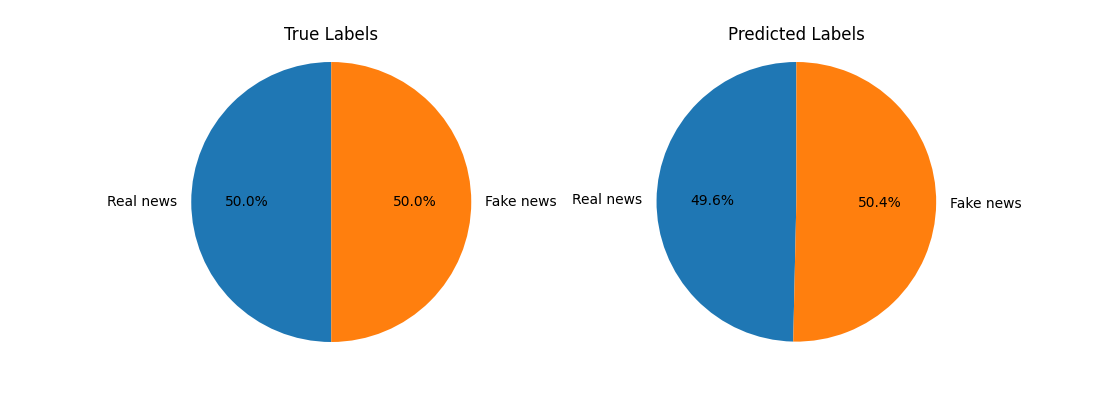
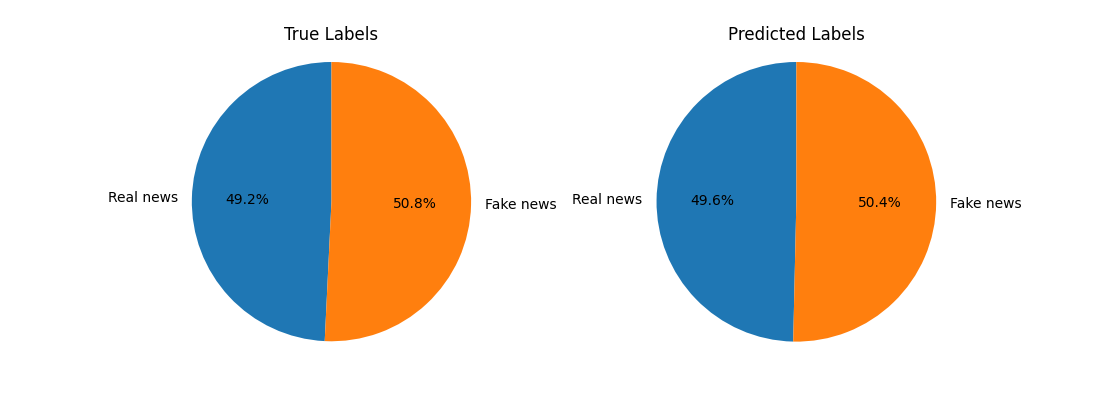
Fix bug in plotting code

diff --git a/model/naive_bayesian_classifier.py b/model/naive_bayesian_classifier.py
@@ -77,9 +77,10 @@ def test_run(X_train, X_test, y_train, y_test, use_full_dataset=False):
     # use best estimator to make predictions
     y_pred = naive_bayesian_predict(best_estimator, X_test)
 
-    tools.plot_predicted_labels(y_test, y_pred, "NaiveBayes", True)
-    tools.display_prediction_scores(y_test,y_pred)
-    tools.write_metrics_to_file(y_test,y_pred,"NaiveBayes")
-    tools.plot_confusion_matrix(y_test,y_pred,"NaiveBayes", True)
+    tools.plot_predicted_labels(y_test.values, y_pred, "NaiveBayes", True)
+    tools.display_prediction_scores(y_test.values,y_pred)
+    tools.write_metrics_to_file(y_test.values,y_pred,"NaiveBayes")
+    tools.plot_confusion_matrix(y_test.values,y_pred,"NaiveBayes", True)
 
+    print()
     tools.display_result(best_estimator, X_train)

diff --git a/model/logistic_regression.py b/model/logistic_regression.py
@@ -71,7 +71,7 @@ def test_run(X_train, X_test, y_train, y_test, use_full_dataset=False):
     # use best estimator to make predictions
     y_pred = logistic_regression_predict(best_estimator, X_test)
 
-    tools.plot_predicted_labels(y_test, y_pred, "LogisticRegression", True)
-    tools.display_prediction_scores(y_test,y_pred)
-    tools.write_metrics_to_file(y_test,y_pred,"LogisticRegression")
-    tools.plot_confusion_matrix(y_test,y_pred,"LogisticRegression", True)
+    tools.plot_predicted_labels(y_test.values, y_pred, "LogisticRegression", True)
+    tools.display_prediction_scores(y_test.values,y_pred)
+    tools.write_metrics_to_file(y_test.values,y_pred,"LogisticRegression")
+    tools.plot_confusion_matrix(y_test.values,y_pred,"LogisticRegression", True)

diff --git a/model/decision_tree.py b/model/decision_tree.py
@@ -74,7 +74,7 @@ def test_run(X_train, X_test, y_train, y_test, use_full_dataset=False):
     # use best estimator to make predictions
     y_pred = decision_tree_predict(best_estimator, X_test)
 
-    tools.plot_predicted_labels(y_test, y_pred, "DecisionTree", True)
-    tools.display_prediction_scores(y_test,y_pred)
-    tools.write_metrics_to_file(y_test,y_pred,"DecisionTree")
-    tools.plot_confusion_matrix(y_test,y_pred,"DecisionTree", True)
+    tools.plot_predicted_labels(y_test.values, y_pred, "DecisionTree", True)
+    tools.display_prediction_scores(y_test.values,y_pred)
+    tools.write_metrics_to_file(y_test.values,y_pred,"DecisionTree")
+    tools.plot_confusion_matrix(y_test.values,y_pred,"DecisionTree", True)

diff --git a/model/random_forest.py b/model/random_forest.py
@@ -81,7 +81,7 @@ def test_run(X_train, X_test, y_train, y_test, use_full_dataset=False):
     # use best estimator to make predictions
     y_pred = random_forest_predict(best_estimator, X_test)
 
-    tools.plot_predicted_labels(y_test, y_pred, "RandomForest", True)
-    tools.display_prediction_scores(y_test,y_pred)
-    tools.write_metrics_to_file(y_test,y_pred,"RandomForest")
-    tools.plot_confusion_matrix(y_test,y_pred,"RandomForest", True)
+    tools.plot_predicted_labels(y_test.values, y_pred, "RandomForest", True)
+    tools.display_prediction_scores(y_test.values,y_pred)
+    tools.write_metrics_to_file(y_test.values,y_pred,"RandomForest")
+    tools.plot_confusion_matrix(y_test.values,y_pred,"RandomForest", True)

diff --git a/model/support_vector_machine.py b/model/support_vector_machine.py
@@ -78,7 +78,7 @@ def test_run(X_train, X_test, y_train, y_test, use_full_dataset=False):
     # use best estimator to make predictions
     y_pred = support_vector_machine_predict(best_estimator, X_test)
 
-    tools.plot_predicted_labels(y_test, y_pred, "SVC", True)
-    tools.display_prediction_scores(y_test,y_pred)
-    tools.write_metrics_to_file(y_test,y_pred,"SVC")
-    tools.plot_confusion_matrix(y_test,y_pred,"SVC", True)
+    tools.plot_predicted_labels(y_test.values, y_pred, "SVC", True)
+    tools.display_prediction_scores(y_test.values,y_pred)
+    tools.write_metrics_to_file(y_test.values,y_pred,"SVC")
+    tools.plot_confusion_matrix(y_test.values,y_pred,"SVC", True)

diff --git a/model/convolutional_neural_network.py b/model/convolutional_neural_network.py
@@ -293,3 +293,6 @@ def test_run(X_train, X_test, y_train, y_test, use_full_dataset=False):
     tools.display_prediction_scores(y_test.values,y_pred_labels)
     tools.write_metrics_to_file(y_test.values,y_pred_labels,"CNN")
     tools.plot_confusion_matrix(y_test.values,y_pred_labels,"CNN", True)
+
+    print()
+    tools.display_result(model, X_train)
